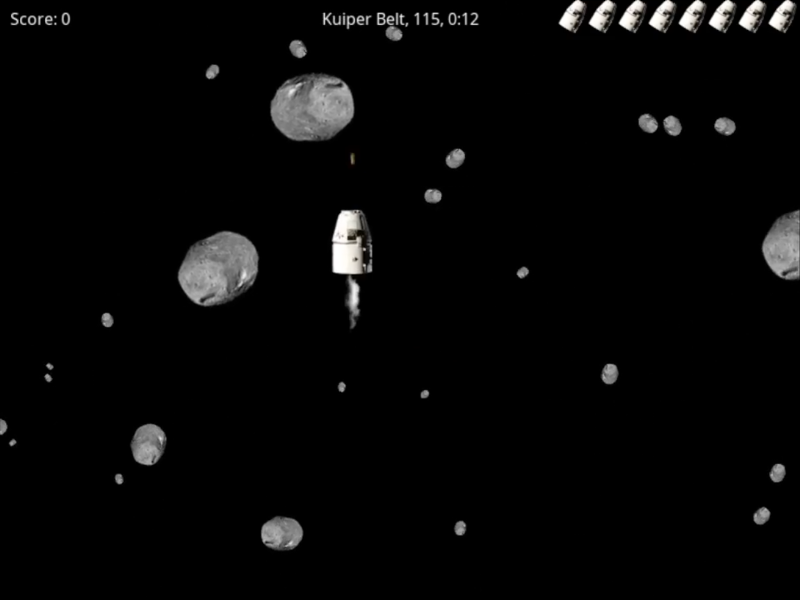
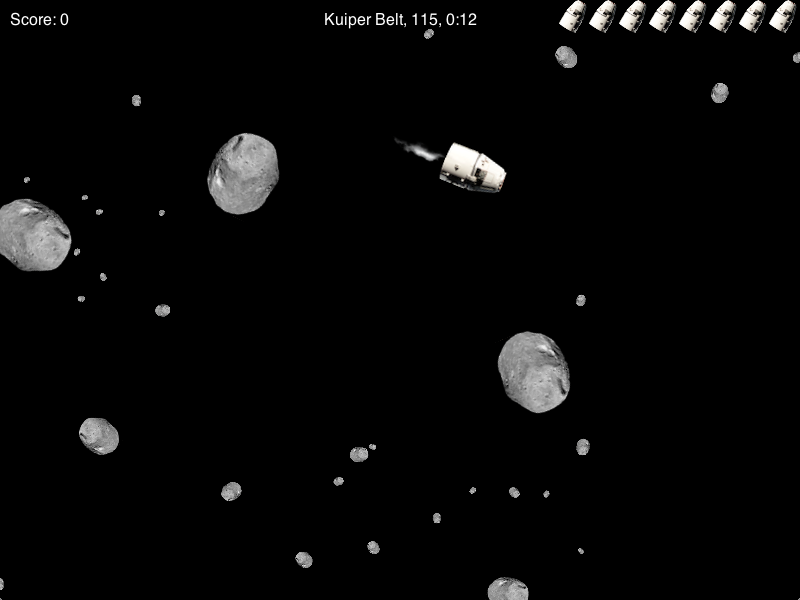
update credits and screenshot

diff --git a/README.md b/README.md
@@ -2,7 +2,7 @@
 
 # Asteroids with Python and Pyglet
 
-I completed this project in 2013 as part of an open-ended high school research project.
+I completed this project in 2013 as part of an open-ended high school research project. I have updated it to work under Python 3 and removed the embedded copy of Pyglet.
 
 It is based on the [Pyglet Tutorial](https://steveasleep.com/pyglettutorial.html) by Steve Landey (AKA. Steve Johnson)
 
@@ -15,8 +15,8 @@ python3 source/asteroids.py
 
 # Credit
 
-- [`resources/asteroid.png`](resources/asteroid.png): NASA/JPL-Caltech/UCAL/MPS/DLR/IDA \[[source](https://www.nasa.gov/mission_pages/dawn/multimedia/pia15678.html)]
-- [`resources/ship.png`](resources/ship.png): Image of SpaceX Dragon Capsule, source unknown
+- [`resources/asteroid.png`](resources/asteroid.png): [source](https://www.nasa.gov/mission_pages/dawn/multimedia/pia15678.html) (NASA/JPL-Caltech/UCAL/MPS/DLR/IDA)
+- [`resources/ship.png`](resources/ship.png): [source](http://spaceexpectations.files.wordpress.com/2012/09/iss_hd_dragon4.png) (author unknown)
 - [`resources/flame.png`](resources/flame.png): James Kirkwood (CC0)
-- [`resources/missile.png`](resources/missile.png): unknown
+- [`resources/missile.png`](resources/missile.png): [source](http://postfiles1.naver.net/20120822_128/jounghwa9_1345641358908TvkzW_PNG/Bullet__2.png?type=w2) (author unknown)
 - This game is based on Steve Landey's [Pyglet Tutorial](https://steveasleep.com/pyglettutorial.html)
